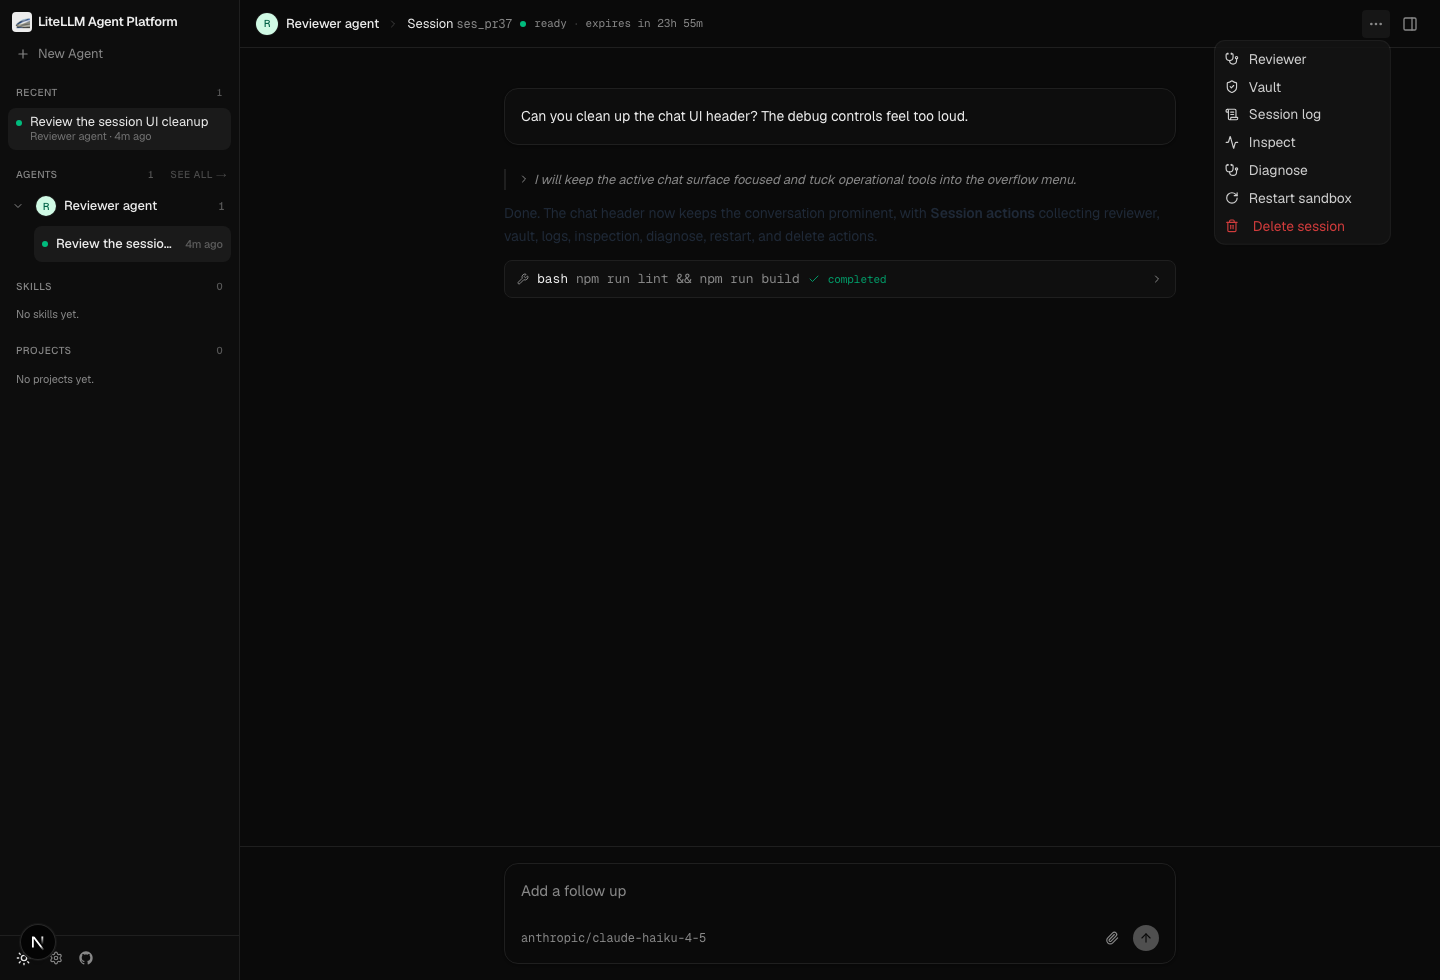
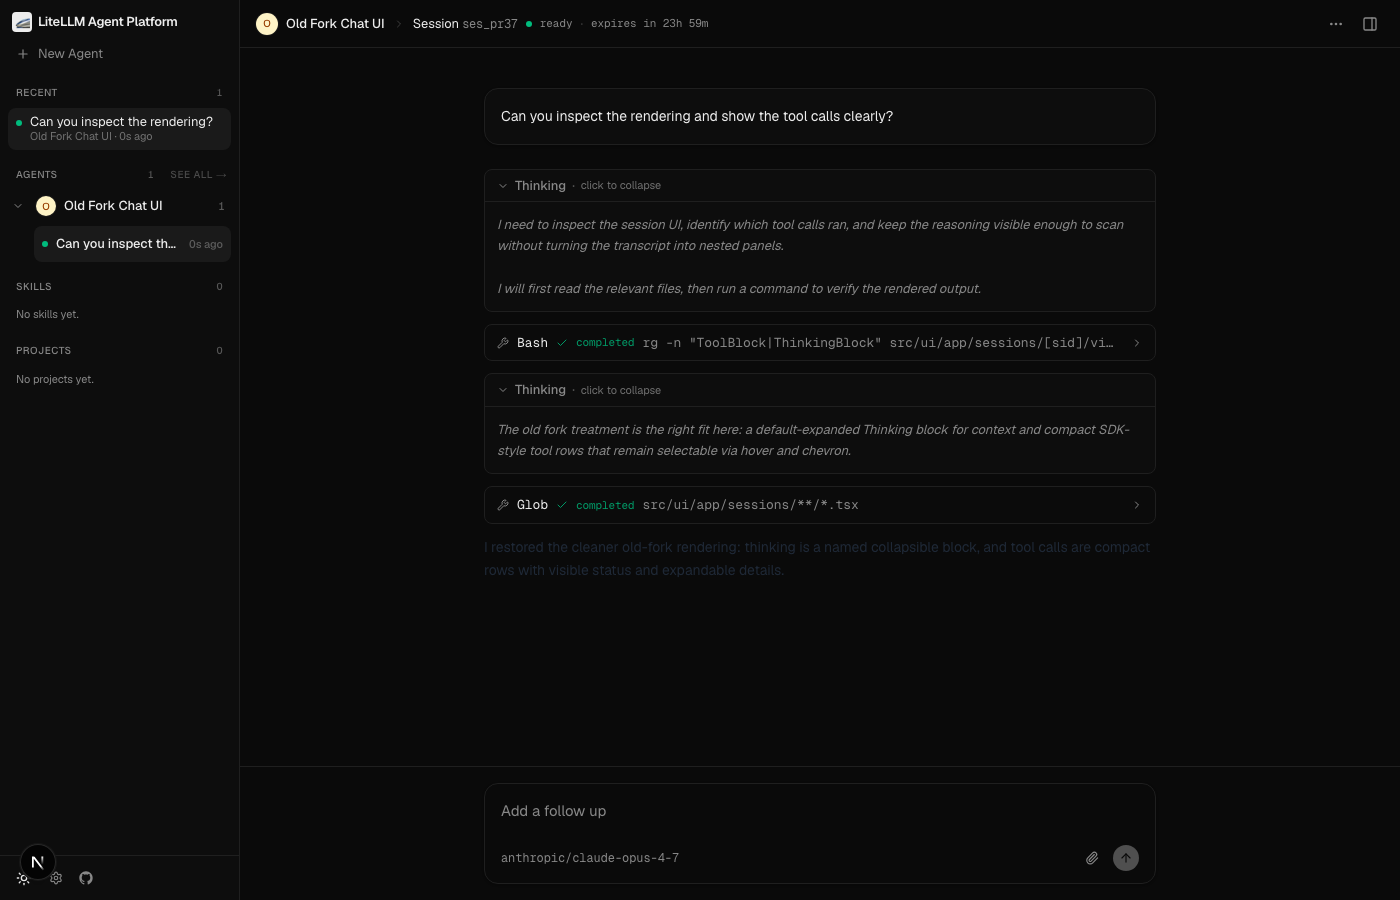
Restore old fork tool call rendering

diff --git a/src/ui/app/sessions/[sid]/view.tsx b/src/ui/app/sessions/[sid]/view.tsx
@@ -1954,7 +1954,7 @@ function PartBlock({ part }: { part: HarnessMessagePart }) {
   if (t === "reasoning" || t === "thinking") {
     const text = typeof part.text === "string" ? part.text : "";
     if (!text) return null;
-    return <ReasoningBlock text={text} />;
+    return <ThinkingBlock text={text} />;
   }
   if (t === "tool") {
     return <ToolBlock part={part} />;
@@ -1974,23 +1974,31 @@ function PartBlock({ part }: { part: HarnessMessagePart }) {
   return null;
 }
 
-function ReasoningBlock({ text }: { text: string }) {
-  const [open, setOpen] = useState(false);
-  const preview = text.length > 360 ? text.slice(0, 360) + "…" : text;
+function ThinkingBlock({ text }: { text: string }) {
+  const [open, setOpen] = useState(true);
   return (
-    <div className="border-l-2 border-border pl-3 text-[13px] text-muted-foreground italic leading-relaxed">
+    <div className="rounded-md border border-border bg-muted/30 text-[13px] text-muted-foreground overflow-hidden">
       <button
         type="button"
         onClick={() => setOpen((v) => !v)}
-        className="flex items-start gap-1 text-left hover:text-foreground"
+        className="flex w-full items-center gap-1.5 px-3 py-1.5 text-left hover:bg-muted/60 hover:text-foreground transition-colors"
       >
         <ChevronDown
-          className={`w-3 h-3 mt-1 shrink-0 transition-transform ${
+          className={`w-3 h-3 shrink-0 transition-transform ${
             open ? "" : "-rotate-90"
           }`}
         />
-        <span className="whitespace-pre-wrap">{open ? text : preview}</span>
+        <span className="font-medium">Thinking</span>
+        <span className="text-muted-foreground/70">·</span>
+        <span className="text-[11px] text-muted-foreground/80">
+          {open ? "click to collapse" : "click to expand"}
+        </span>
       </button>
+      {open && (
+        <div className="border-t border-border px-3 py-3 italic leading-relaxed whitespace-pre-wrap">
+          {text || "No thinking content available"}
+        </div>
+      )}
     </div>
   );
 }
@@ -2050,7 +2058,7 @@ function ToolBlock({ part }: { part: HarnessMessagePart }) {
     ? status === "running"
       ? "spawning sub agent"
       : "sub agent"
-    : toolName;
+    : formatToolName(toolName);
   const hasDetails = isTask
     ? subParts.length > 0 || output !== undefined
     : input !== undefined || output !== undefined || errorOut !== undefined;
@@ -2064,28 +2072,29 @@ function ToolBlock({ part }: { part: HarnessMessagePart }) {
   const StatusIcon =
     status === "completed" ? Check : status === "error" ? X : Loader2;
 
-  // One clean clickable card per tool call (Cursor-style): collapsed by
-  // default, click to reveal input/output — or, for a subagent, its full work.
+  // SDK-style cards from the old fork: one compact selectable row per tool
+  // call, with details tucked behind a chevron.
   return (
-    <div className="border border-border rounded-md bg-muted/40 text-[13px] overflow-hidden">
+    <div className="rounded-md border border-border bg-muted/15 text-[13px] overflow-hidden">
       <button
         type="button"
         onClick={() => hasDetails && setOpen((v) => !v)}
-        className={`w-full flex items-center gap-2 px-3 py-2 text-left min-w-0 ${
-          hasDetails ? "hover:bg-muted cursor-pointer" : "cursor-default"
+        className={`w-full flex items-center gap-2 px-3 py-2 text-left min-w-0 transition-colors ${
+          hasDetails ? "hover:bg-muted/60 cursor-pointer" : "cursor-default"
         }`}
       >
         <Wrench className="w-3 h-3 text-muted-foreground shrink-0" />
         <span className="mono text-foreground shrink-0">{label}</span>
-        {desc && (
-          <span className="mono text-muted-foreground truncate">{desc}</span>
-        )}
         <StatusIcon
           className={`w-3 h-3 shrink-0 ${statusColor} ${status === "running" ? "animate-spin" : ""}`}
         />
         <span className={`mono text-[11px] shrink-0 ${statusColor}`}>
           {status}
         </span>
+        {desc && (
+          <span className="mono text-muted-foreground truncate">{desc}</span>
+        )}
+        <span className="flex-1" aria-hidden />
         {hasDetails && (
           <ChevronDown
             className={`ml-auto w-3 h-3 shrink-0 text-muted-foreground transition-transform ${
@@ -2097,7 +2106,7 @@ function ToolBlock({ part }: { part: HarnessMessagePart }) {
 
       {open && isTask && (
         // The subagent's own steps + final output, nested under the card.
-        <div className="border-t border-border border-l-2 border-l-amber-300/60 px-3 py-2 flex flex-col gap-2">
+        <div className="border-t border-border border-l-2 border-l-amber-400/70 bg-muted/20 px-3 py-2 flex flex-col gap-2">
           {subParts.length > 0 ? (
             subParts.map((p, i) => (
               <PartBlock key={i} part={p as unknown as HarnessMessagePart} />
@@ -2113,7 +2122,7 @@ function ToolBlock({ part }: { part: HarnessMessagePart }) {
       )}
 
       {open && !isTask && hasDetails && (
-        <div className="border-t border-border px-3 py-2 flex flex-col gap-2">
+        <div className="border-t border-border bg-muted/20 px-3 py-2 flex flex-col gap-2">
           {input !== undefined && <ToolKv label="input" value={input} />}
           {output !== undefined && <ToolKv label="output" value={output} />}
           {errorOut !== undefined && <ToolKv label="error" value={errorOut} />}
@@ -2136,6 +2145,15 @@ function ToolKv({ label, value }: { label: string; value: unknown }) {
       </pre>
     </div>
   );
+}
+
+function formatToolName(toolName: string): string {
+  if (!toolName) return "Tool";
+  return toolName
+    .split(/[_\s-]+/)
+    .filter(Boolean)
+    .map((word) => word.charAt(0).toUpperCase() + word.slice(1))
+    .join(" ");
 }
 
 // A permission the agent (or subagent) is blocked on. opencode asks before